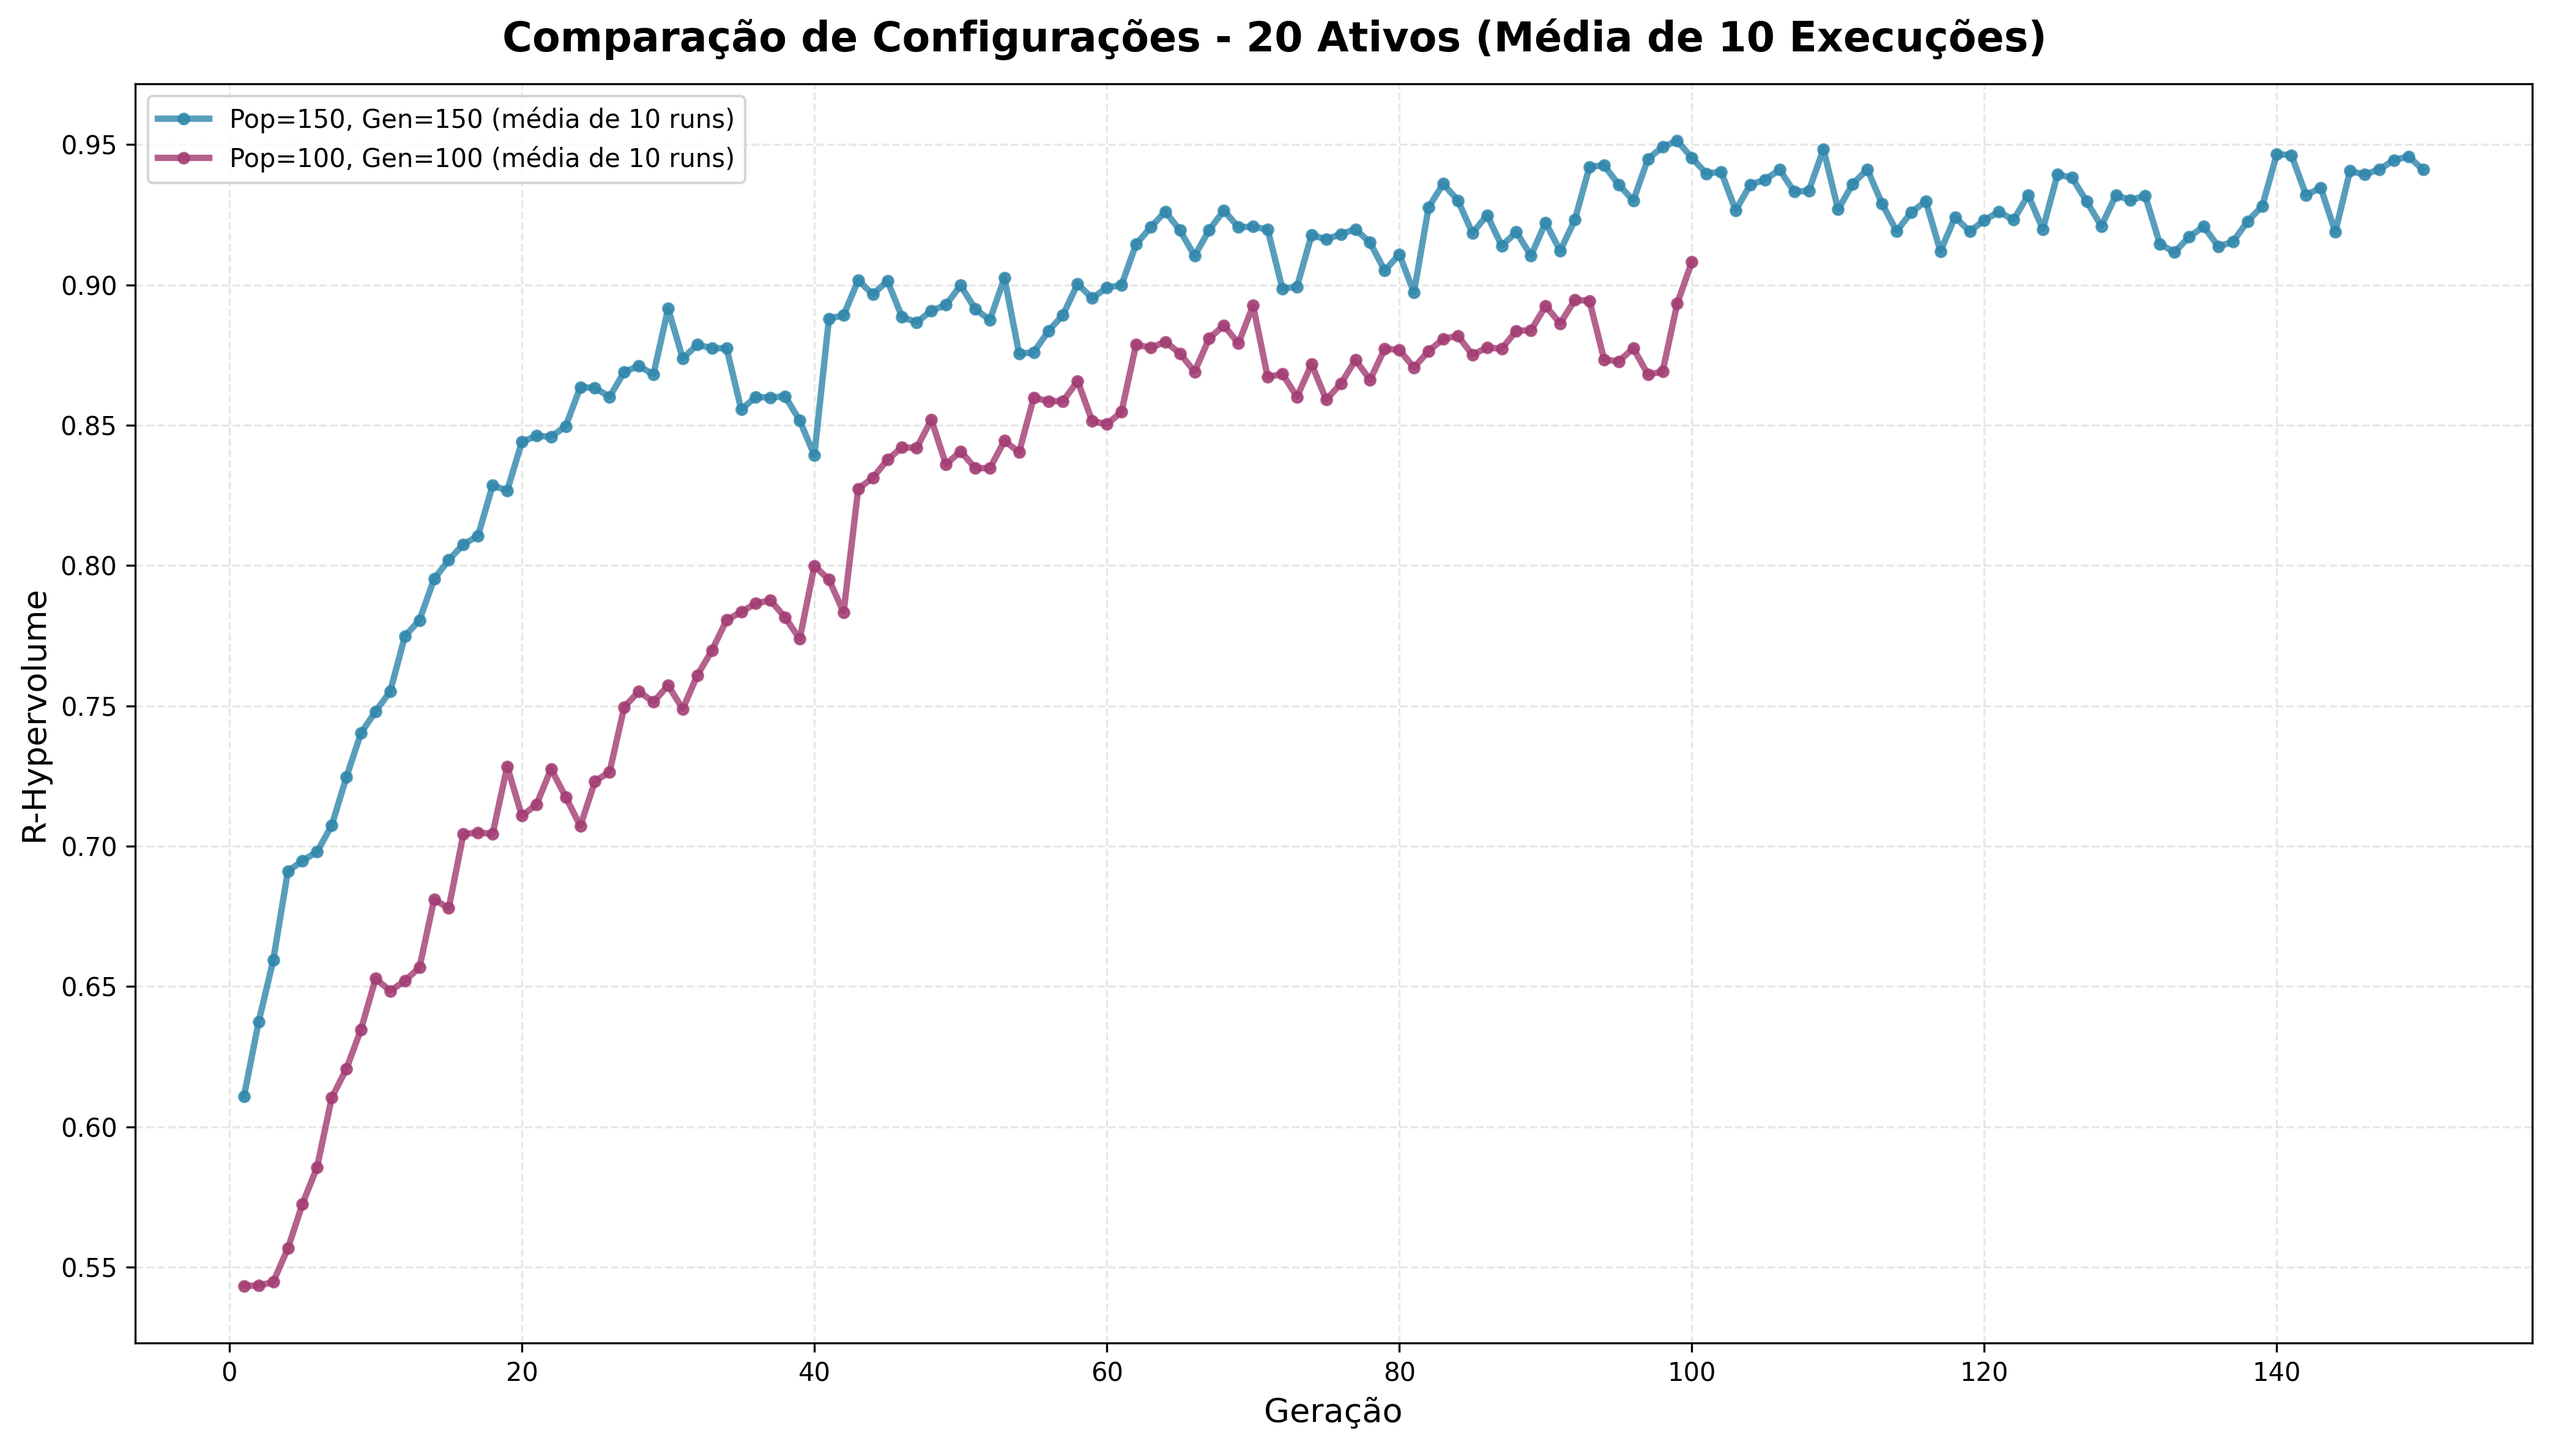
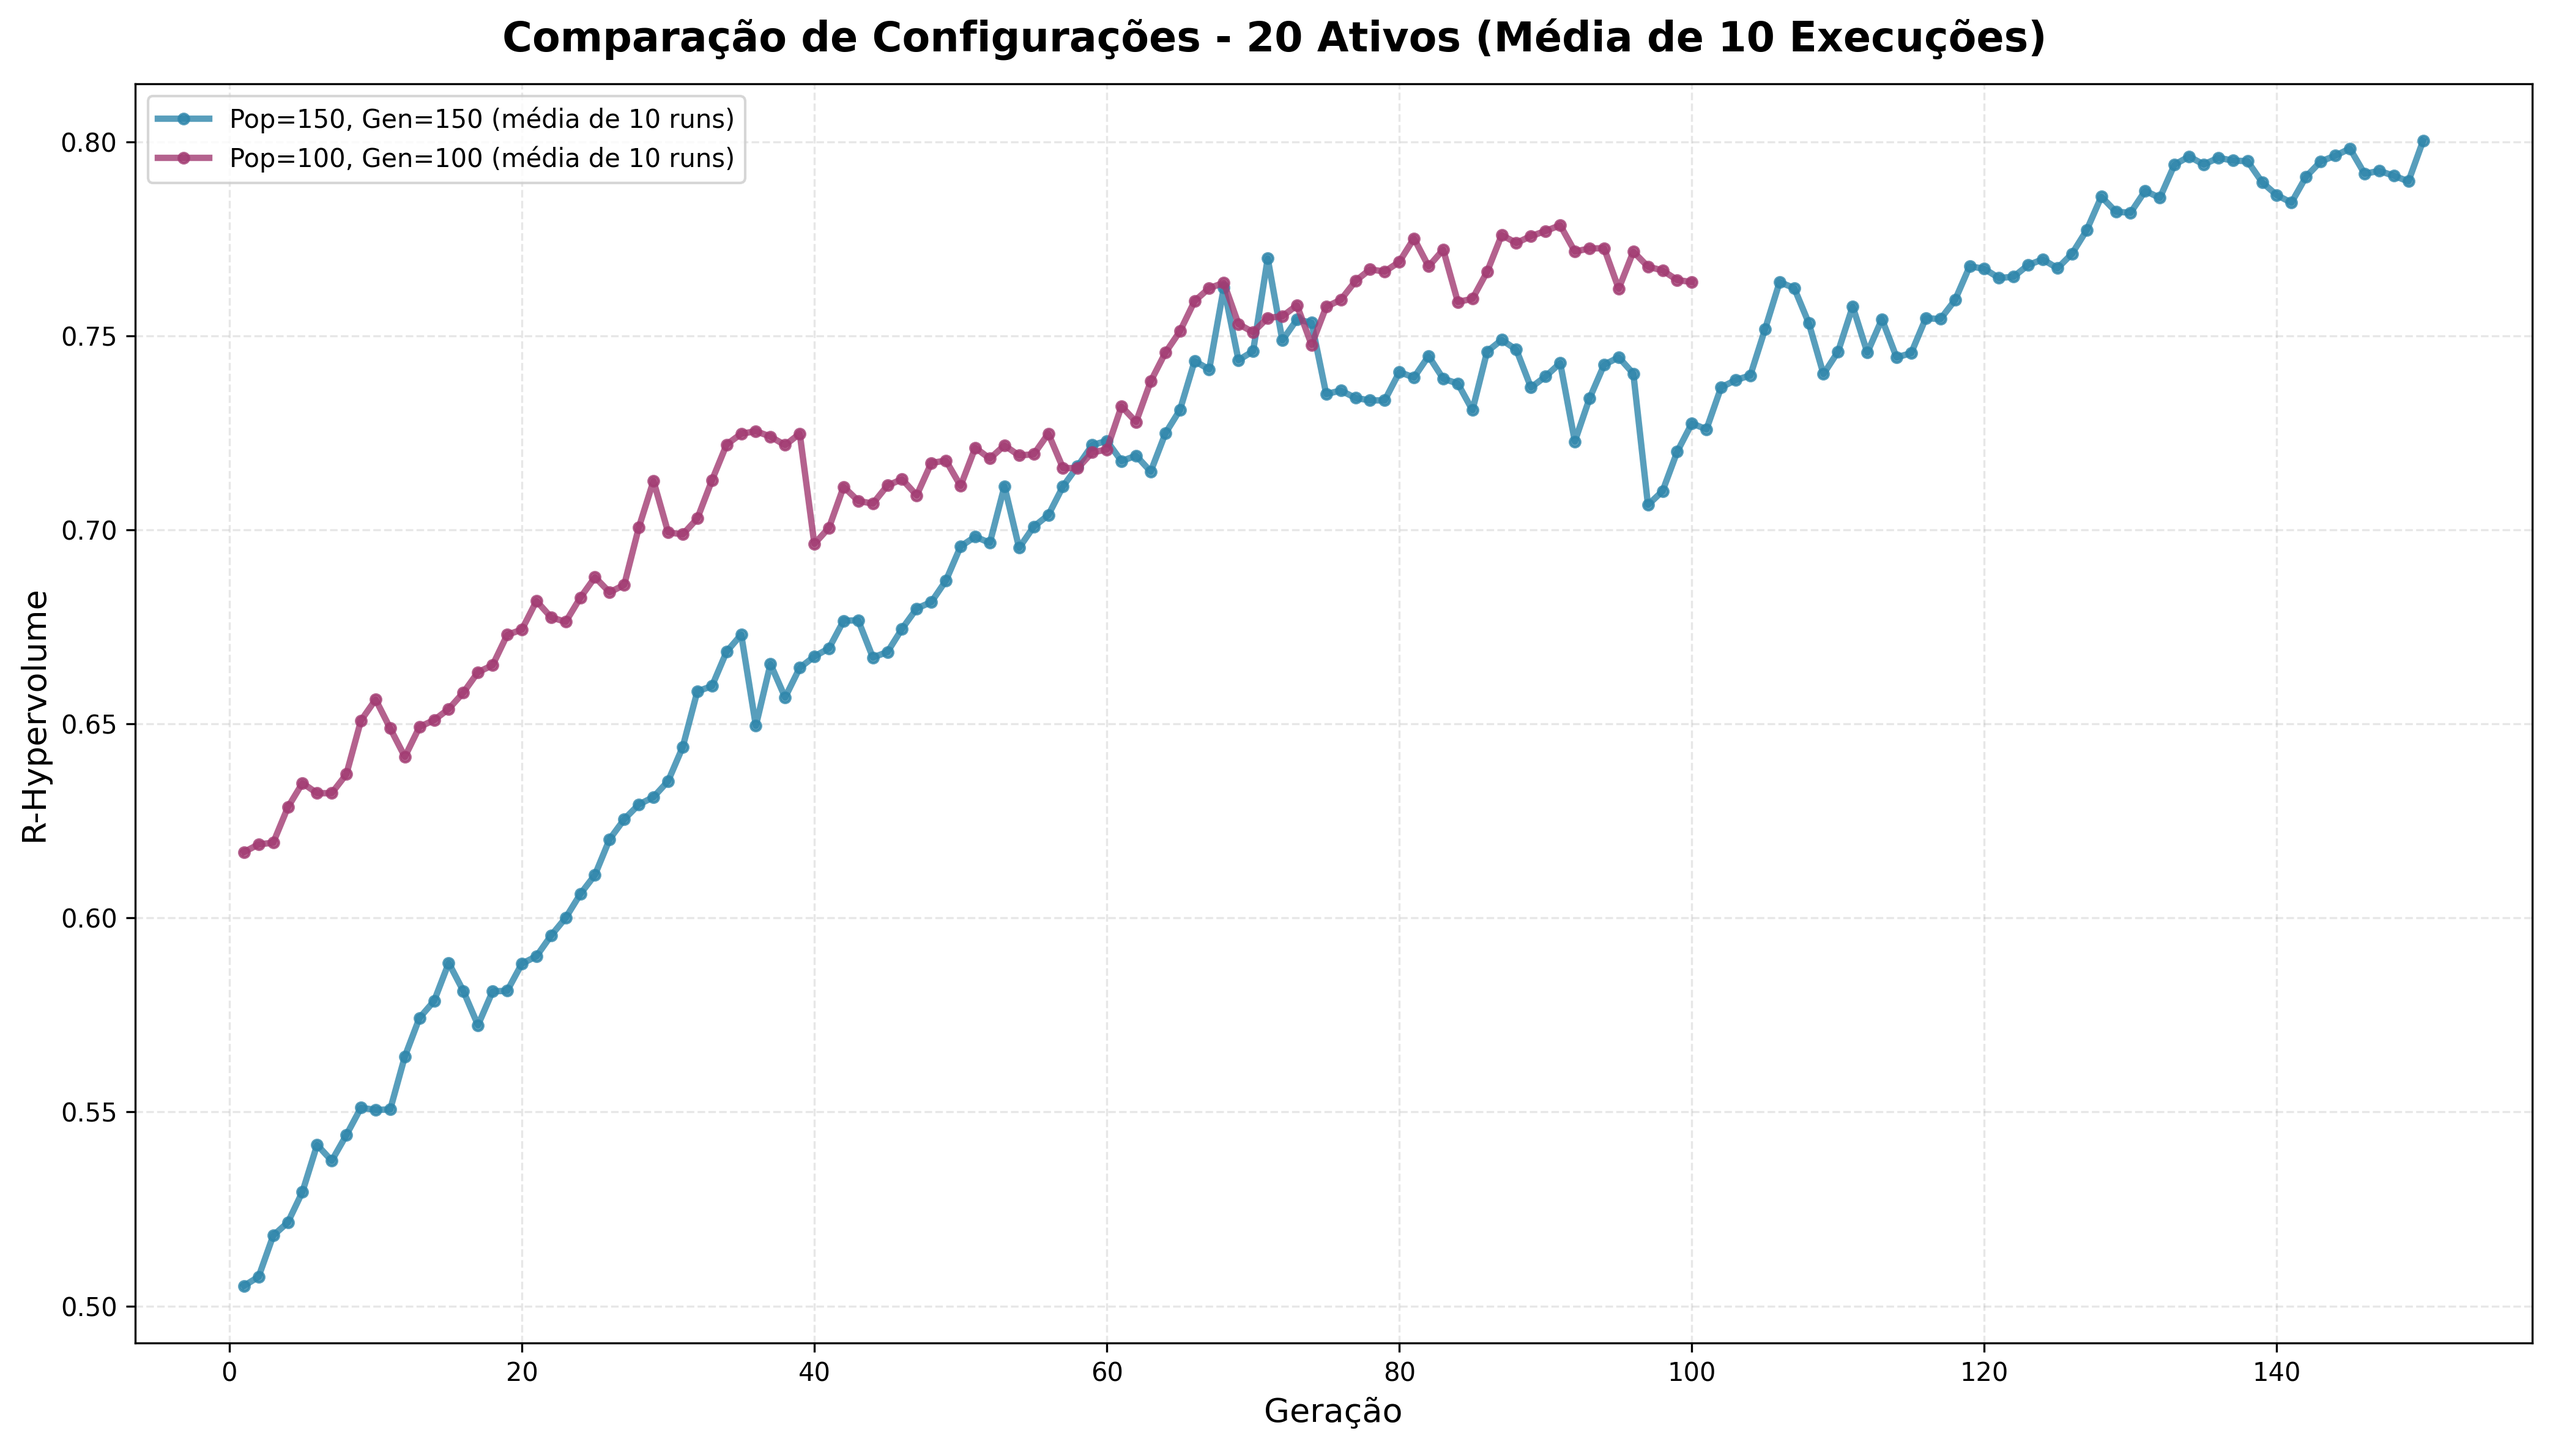
Ajustes

diff --git a/backend/services/agmo/tuning/quality_metrics.py b/backend/services/agmo/tuning/quality_metrics.py
@@ -35,8 +35,7 @@ class QualityMetrics:
                                 reference_points: np.ndarray,
                                 ideal_point: Optional[np.ndarray] = None,
                                 nadir_point: Optional[np.ndarray] = None,
-                                weights: Optional[np.ndarray] = None,
-                                use_log_transform: bool = True) -> float:
+                                weights: Optional[np.ndarray] = None) -> float:
 
         """
         Calcula o R-Hypervolume (R2 indicator) da fronteira de Pareto.
@@ -153,44 +152,21 @@ class QualityMetrics:
         logger.debug(f"R2 indicator calculado: {r2:.6e}")
         logger.debug(f"Quanto menor R2, melhor a fronteira em relação aos ref points")
 
-        # Usa transformação sigmoid para estabilidade e interpretabilidade
-        # Transformação: R-HV = 1 / (1 + R2)
-        #
-        # Propriedades:
-        # - Sempre positiva: R-HV ∈ (0, 1]
-        # - R2 = 0 (perfeito) → R-HV = 1.0
-        # - R2 = 1 (razoável) → R-HV = 0.5
-        # - R2 = ∞ (péssimo) → R-HV → 0
-        # - Monotônica: menor R2 = maior R-HV
-        if use_log_transform:
-            # Transformação sigmoid (padrão)
-            # R2 negativo significa soluções muito boas (melhores que ref points)
-            # Usamos abs(r2) para manter a escala mesmo quando super-ótimo
-            r2_adjusted = abs(r2) if r2 < 0 else r2
-            r_hv = 1.0 / (1.0 + r2_adjusted)
+        # R2 negativo significa soluções muito boas (melhores que ref points)
+        # Usamos abs(r2) para manter a escala mesmo quando super-ótimo
+        r2_adjusted = abs(r2) if r2 < 0 else r2
+        r_hv = 1.0 / (1.0 + r2_adjusted)
 
-            # Log simplificado nas primeiras gerações
-
-            if self._debug_counter <= 3 or self._debug_counter % 10 == 0:
-
-                logger.info(f"   → R-HV final: {r_hv:.4f} (maior = melhor)")
-
-                if r2 < 0:
-
-                    logger.info(f"   ⭐ R2 NEGATIVO: Soluções melhores que reference points!")
-
-            logger.debug(f"R-HV (sigmoid): R2={r2:.4f} (adjusted={r2_adjusted:.4f}) → R-HV={r_hv:.4f}")
+        # Log simplificado nas primeiras gerações
+        if self._debug_counter <= 3 or self._debug_counter % 10 == 0:
+            logger.info(f"   → R-HV final: {r_hv:.4f} (maior = melhor)")
             if r2 < 0:
-                logger.info(f"⭐ R2 NEGATIVO ({r2:.4f}): Soluções MELHORES que reference points!")
-            logger.debug(f"   Interpretação: 1.0=perfeito, 0.5=razoável, 0.0=péssimo")
-        else:
-            # Inversão tradicional 1/R2 (mantida para compatibilidade)
-            if abs(r2) < 1e-10:
-                logger.warning(f"R2 muito próximo de zero ({r2:.6e}). Usando R-HV máximo.")
-                r_hv = 1e10  # Valor muito alto indica qualidade perfeita
-            else:
-                r_hv = 1.0 / abs(r2)
-            logger.debug(f"R-HV (1/R2): {r_hv:.6e} (quanto maior, melhor)")
+                logger.info(f"   ⭐ R2 NEGATIVO: Soluções melhores que reference points!")
+
+        logger.debug(f"R-HV (sigmoid): R2={r2:.4f} (adjusted={r2_adjusted:.4f}) → R-HV={r_hv:.4f}")
+        if r2 < 0:
+            logger.info(f"⭐ R2 NEGATIVO ({r2:.4f}): Soluções MELHORES que reference points!")
+        logger.debug(f"   Interpretação: 1.0=perfeito, 0.5=razoável, 0.0=péssimo")
 
         return r_hv
 
@@ -312,12 +288,10 @@ class QualityMetrics:
                               ideal_point: Optional[np.ndarray] = None,
                               reference_points: Optional[np.ndarray] = None,
                               nadir_point: Optional[np.ndarray] = None,
-                              weights: Optional[np.ndarray] = None,
-                              use_log_transform: bool = True) -> dict:
+                              weights: Optional[np.ndarray] = None) -> dict:
 
         hv_value = self.calculate_r_hypervolume(
-            pareto_front, reference_points, ideal_point, nadir_point, weights,
-            use_log_transform=use_log_transform
+            pareto_front, reference_points, ideal_point, nadir_point, weights
         )
         metrics = {
             'r_hypervolume': hv_value,

diff --git a/backend/services/agmo/tuning/convergence_tracking.py b/backend/services/agmo/tuning/convergence_tracking.py
@@ -28,26 +28,6 @@ from models import db
 import time
 import numpy as np
 
-# IDEAL POINT (melhor caso realista):
-
-# - Retorno esperado: -2.5% ao mês (melhor observado: ~-2.2%)
-
-# - Volatilidade: 0.3% ao mês (melhor observado: ~0.34%)
-
-# - Max Drawdown: 8% (melhor observado: ~9.9%)
-
-IDEAL_POINT_PORTFOLIO = np.array([-0.025, 0.005, 0.09])
-
-# NADIR POINT (pior caso aceitável):
-
-# - Retorno esperado: +1% ao mês (pior observado: ~-1.6%)
-
-# - Volatilidade: 1% ao mês (pior observado: ~0.69%)
-
-# - Max Drawdown: 16% (pior observado: ~13.5%)
-
-NADIR_POINT_PORTFOLIO = np.array([-0.010, 0.01, 0.15])
-
 def exemplo_simples():
     """
     Exemplo simples: otimização com tracking de convergência e visualização.
@@ -107,9 +87,9 @@ def exemplo_simples():
     # Verifica convergência
     if tracker.has_converged(window=10, threshold=0.01):
         conv_gen = tracker.get_convergence_generation(window=10, threshold=0.01)
-        print(f"✅ Algoritmo convergiu na geração {conv_gen}")
+        print(f"Algoritmo convergiu na geração {conv_gen}")
     else:
-        print(f"⚠  Algoritmo não convergiu completamente")
+        print(f"Algoritmo não convergiu completamente")
 
     # Gera gráficos
     print(f"\n📊 Gerando gráficos de convergência...")
@@ -147,10 +127,6 @@ def exemplo_comparacao_multiplas_execucoes():
     """
     from services.agmo.tuning import plot_multiple_runs_comparison
 
-    print(f"\n{'='*80}")
-    print(f"📊 EXEMPLO: Comparação de Múltiplas Execuções por Quantidade de Ativos")
-    print(f"{'='*80}\n")
-
     app = create_app()
     risk_level = 'moderado'
 
@@ -174,28 +150,10 @@ def exemplo_comparacao_multiplas_execucoes():
         {'pop': 100, 'gen': 100},
     ]
 
-    # Usa pontos de referência TEÓRICOS fixos para normalização consistente
-    # Isso evita que o R-Hypervolume caia quando o R-NSGA2 elimina diversidade
-    # (comportamento esperado do algoritmo ao convergir para o reference point)
-    fixed_ideal_point = IDEAL_POINT_PORTFOLIO.copy()
-    fixed_nadir_point = NADIR_POINT_PORTFOLIO.copy()
-
-    print(f"\n📐 USANDO PONTOS DE REFERÊNCIA TEÓRICOS FIXOS:")
-    print(f"   Ideal point (melhor caso teórico): {fixed_ideal_point}")
-    print(f"     Retorno: {-fixed_ideal_point[0]*100:.2f}%/mês")
-    print(f"     Volatilidade: {fixed_ideal_point[1]*100:.3f}%/mês")
-    print(f"     Max Drawdown: {fixed_ideal_point[2]*100:.1f}%")
-    print(f"\n   Nadir point (pior caso aceitável): {fixed_nadir_point}")
-    print(f"     Retorno: {-fixed_nadir_point[0]*100:.2f}%/mês")
-    print(f"     Volatilidade: {fixed_nadir_point[1]*100:.3f}%/mês")
-    print(f"     Max Drawdown: {fixed_nadir_point[2]*100:.1f}%")
-    print(f"\n   🔒 Estes valores serão FIXOS para todas as comparações!")
-    print(f"   ✅ R-Hypervolume não cairá artificialmente ao convergir\n")
-
     # Para cada quantidade de ativos
     for num_assets in asset_quantities:
 
-        print(f"\n📐 CALCULANDO PONTOS DE REFERÊNCIA FIXOS...")
+        print(f"\nCalculando pontos de referência fixos...")
         print(f"   Executando configuração de referência para estabelecer baseline...")
 
         # Executa uma configuração de referência para estimar ideal_point e nadir_point
@@ -229,11 +187,9 @@ def exemplo_comparacao_multiplas_execucoes():
         fixed_ideal_point = reference_tracker.ideal_point.copy()
         fixed_nadir_point = reference_tracker.nadir_point.copy()
 
-        print(f"\n   ✅ Pontos de referência calculados (acumulados de 200 gerações):")
+        print(f"\n   Pontos de referência calculados (acumulados de 200 gerações):")
         print(f"      Ideal point: {fixed_ideal_point}")
         print(f"      Nadir point: {fixed_nadir_point}")
-        print(f"   🔒 Estes valores serão FIXOS para todas as comparações!\n")
-
 
         print(f"\n{'='*80}")
         print(f"🎯 TESTANDO COM {num_assets} ATIVOS")

diff --git a/backend/services/agmo/optimization_service.py b/backend/services/agmo/optimization_service.py
@@ -20,7 +20,7 @@ from .agmo_service import Nsga2OtimizacaoService, MIN_ASSETS
 logger = logging.getLogger(__name__)
 
 
-class OtimizacaoService:
+class OptimizationService:
     """
     Serviço de otimização de carteiras que integra com o AGMO.
 
@@ -109,16 +109,6 @@ class OtimizacaoService:
             asset_ids = None  # None = usar todos os ativos disponíveis do tipo ACAO
 
             # ========== 3. EXECUÇÃO DA OTIMIZAÇÃO ==========
-            logger.info("=" * 70)
-            logger.info("INICIANDO OTIMIZAÇÃO AGMO (R-NSGA2)")
-            logger.info("=" * 70)
-            logger.info(f"  Perfil de risco: {risk_profile}")
-            logger.info(f"  Horizonte: {years_period} anos")
-            logger.info(f"  Ativos restringidos: {len(restricted_asset_ids)}")
-            if max_assets:
-                logger.info(f"  Máx. ativos na carteira: {max_assets}")
-            logger.info("=" * 70)
-
             # Cria instância do serviço AGMO
             service = Nsga2OtimizacaoService(
                 app=current_app._get_current_object(),
@@ -137,15 +127,6 @@ class OtimizacaoService:
             # ========== 4. FORMATAÇÃO DO RESULTADO ==========
             composition = result['composicao']
             metrics = result['metricas']
-
-            logger.info("=" * 70)
-            logger.info("OTIMIZAÇÃO CONCLUÍDA COM SUCESSO")
-            logger.info("=" * 70)
-            logger.info(f"  Carteira com {len(composition)} ativos")
-            logger.info(f"  Retorno esperado anual: {metrics['retorno_esperado_anual']*100:.2f}%")
-            logger.info(f"  Volatilidade anual: {metrics['volatilidade_anual']*100:.2f}%")
-            logger.info(f"  Índice de Sharpe: {metrics['sharpe_ratio']:.2f}")
-            logger.info("=" * 70)
 
             # Formata mensagem de sucesso
             message = (

diff --git a/backend/routes/carteira_routes.py b/backend/routes/carteira_routes.py
@@ -1,7 +1,7 @@
 from flask import Blueprint, jsonify, request
 from flask_jwt_extended import jwt_required, get_jwt_identity
 from models.ativo import Asset
-from services.agmo.otimizacao_service import OtimizacaoService
+from services.agmo.optimization_service import OptimizationService
 from models import db, Portfolio, OptimizationParameters, PortfolioAsset, ParameterAssetRestriction
 
 carteira_bp = Blueprint('carteiras', __name__)
@@ -18,7 +18,7 @@ def optimize_and_create_portfolio():
     if not parameters or not portfolio_info or not portfolio_info.get('nome'):
         return jsonify({'erro': 'A estrutura da requisição é inválida. Forneça `parametros` e `info_carteira`.'}), 400
 
-    optimized_composition, message = OtimizacaoService.optimize_portfolio(parameters)
+    optimized_composition, message = OptimizationService.optimize_portfolio(parameters)
 
     if not optimized_composition:
         return jsonify({'erro': message}), 500

diff --git a/backend/services/agmo/custom_operators.py b/backend/services/agmo/custom_operators.py
@@ -8,16 +8,6 @@ Abordagem:
 - Após cada operação genética, zerar ativos excedentes (menor peso)
 - Renormalizar para soma = 1
 - Garante que todo o espaço de busca respeita a cardinalidade
-
-Referências:
-- Chang, T. J., Meade, N., Beasley, J. E., & Sharaiha, Y. M. (2000).
-  "Heuristics for cardinality constrained portfolio optimisation".
-  Computers & Operations Research, 27(13), 1271-1302.
-
-- Ruiz-Torrubiano, R., & Suárez, A. (2010).
-  "Hybrid approaches and dimensionality reduction for portfolio selection
-  with cardinality constraints". IEEE Computational Intelligence Magazine, 5(2), 92-107.
-
 """
 
 import numpy as np
